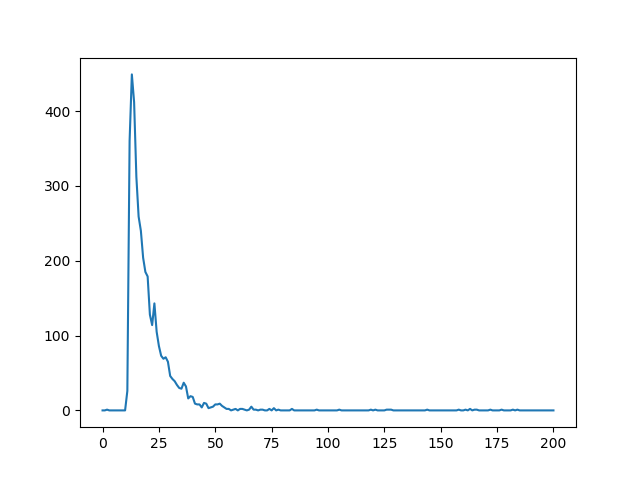
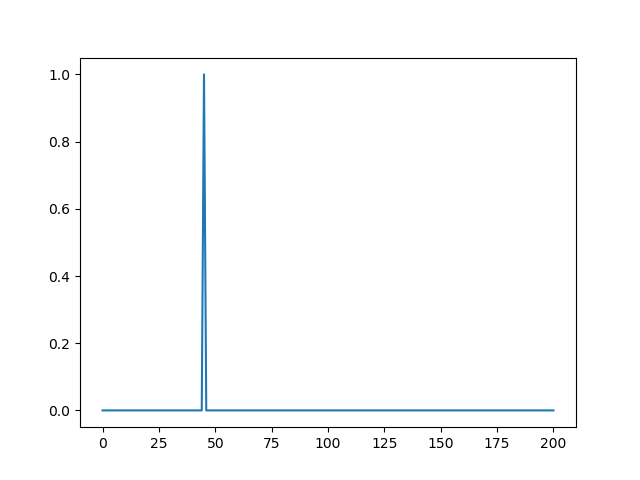
Clean-up commit.

diff --git a/app/pythonbackend/main.py b/app/pythonbackend/main.py
@@ -27,17 +27,17 @@ def main():
                                                FLIMInfo['PixelsY'],
                                                FLIMInfo['GlobalResolution'],
                                                FLIMInfo['Resolution'],
-                                               2,
+                                               0,
                                                4)
     recordarray = None
     plt.imshow(intimage, cmap="gray")
     plt.savefig("imgOutput/out.png")
     plt.show()
 
-    plt.plot(flimarray[100][120][:])
+    # plt.plot(flimarray[100][120][:])
     # plt.yscale("log")
-    plt.savefig("imgOutput/decay.png")
-    plt.show()
+    # plt.savefig("imgOutput/decay.png")
+    # plt.show()
 
     lifetime = glFit.globalTailFit(flimarray, FLIMInfo)
 

diff --git a/app/pythonbackend/globalFitting.py b/app/pythonbackend/globalFitting.py
@@ -12,10 +12,10 @@ def globalTailFit(flimarray, FLIMInfo):
     endOfData = overallDecay.size - 1
     plt.plot(xaxis, overallDecay, 'b.')
     tau_fit, tau_cov = curve_fit(
-        expDecay, xaxis[maxVal:endOfData], overallDecay[maxVal:endOfData], p0=(max(overallDecay), 1, 5))
+        expDecay, xaxis[maxVal:endOfData-20], overallDecay[maxVal:endOfData-20], p0=(max(overallDecay), 0, 5))
 
-    plt.plot(xaxis, expDecay(xaxis, *tau_fit), 'r-')
-    plt.yscale("log")
+    plt.plot(xaxis[maxVal:endOfData-20],
+             expDecay(xaxis, *tau_fit)[maxVal:endOfData-20], 'r-')
     plt.show()
 
     lifetime = round(tau_fit[2], 4)
